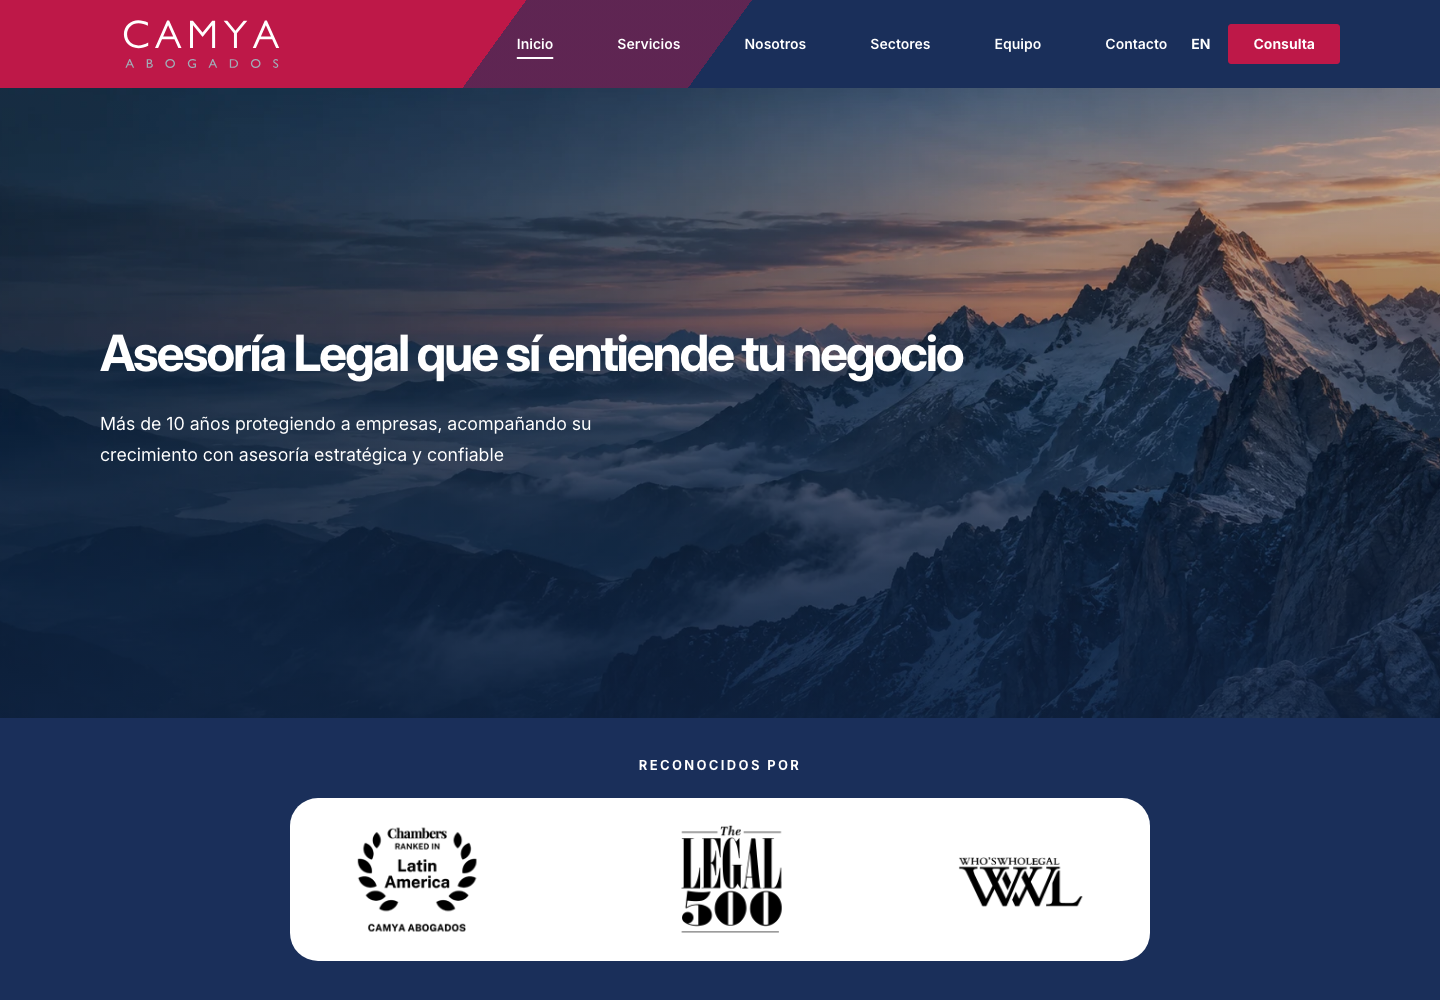
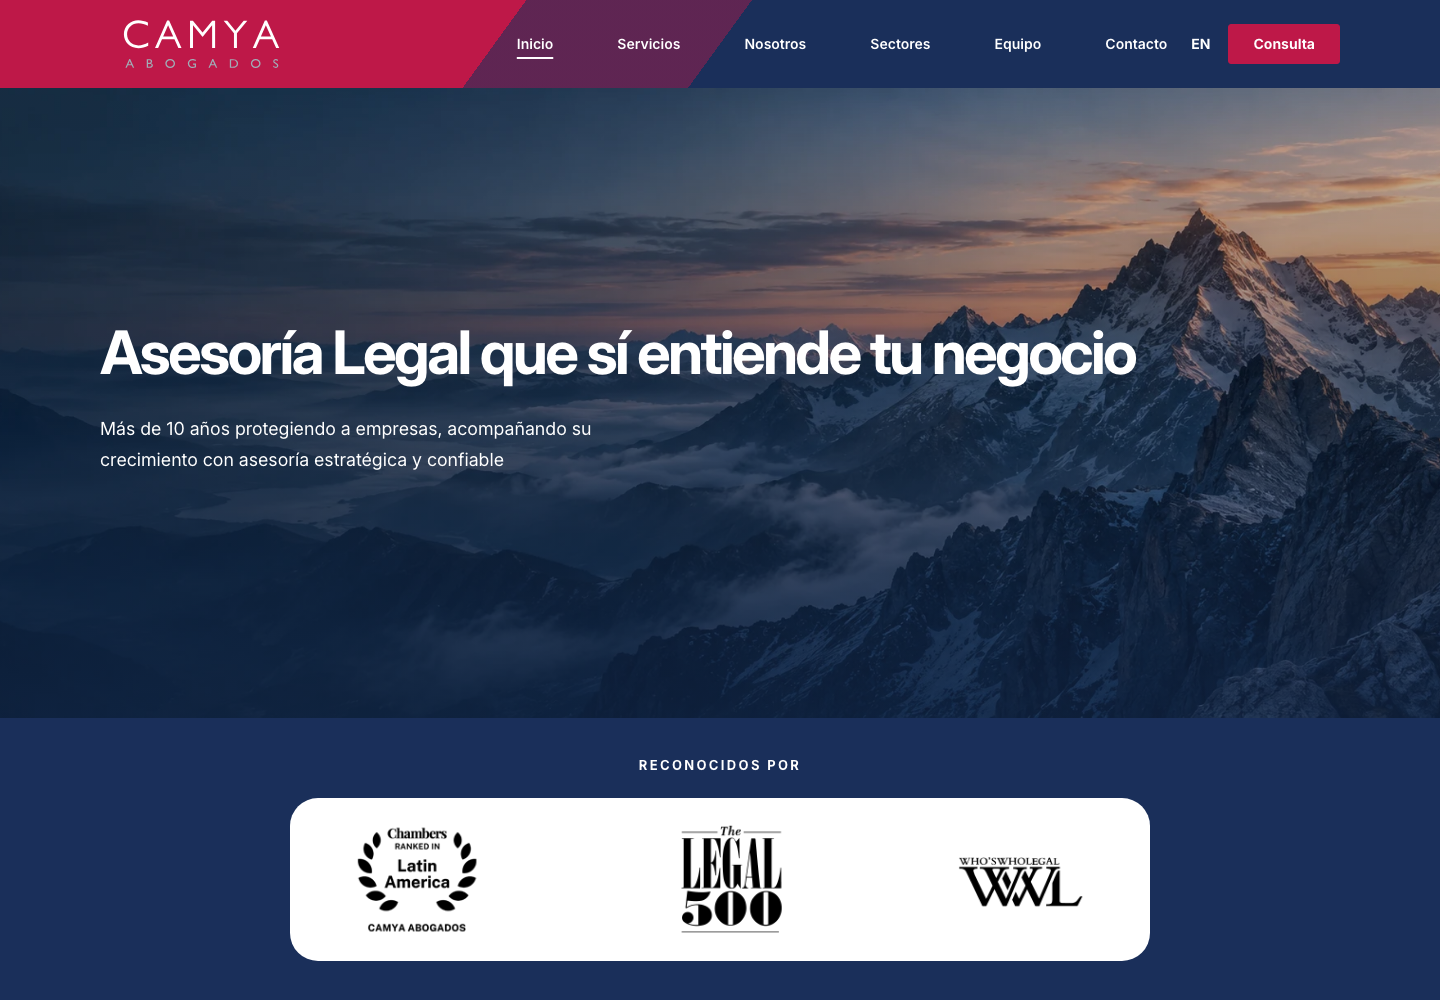
Increase Spanish desktop hero title size by 20 percent

Changed region(s): [[0.0625, 0.341, 0.8125, 0.465]]

diff --git a/dist/home.css b/dist/home.css
@@ -116,6 +116,9 @@ body.camya-home-refresh {
     white-space: nowrap;
     text-wrap: nowrap;
   }
+  .camya-home-refresh:lang(es) .camya-hero h1 {
+    font-size: clamp(38.4px, 4.2vw, 60px);
+  }
 }
 
 .camya-recognition {padding: 38px 0 48px; background: var(--camya-blue)}

diff --git a/verification/HOME_REFRESH_FR.md b/verification/HOME_REFRESH_FR.md
@@ -8,6 +8,8 @@ Le bandeau logo/menu est ensuite ajusté à la référence du client : hauteur d
 
 À la demande du client, le titre du hero est affiché sur une seule ligne à partir de 1024 px, avec une taille proportionnelle à la largeur (32 à 50 px). Le titre anglais utilise la même règle. Sur téléphone et tablette, les retours à la ligne et les tailles lisibles restent conservés.
 
+Le titre espagnol est ensuite agrandi de **20 % sur ordinateur** : 38,4 à 60 px, toujours sur une seule ligne. Contrôle à 1024, 1180, 1280, 1366, 1440 et 1920 px : augmentation exacte de 20 %, aucun débordement. Les tailles mobiles sont conservées.
+
 | Menu espagnol | Destination |
 | --- | --- |
 | Inicio | `/` |
